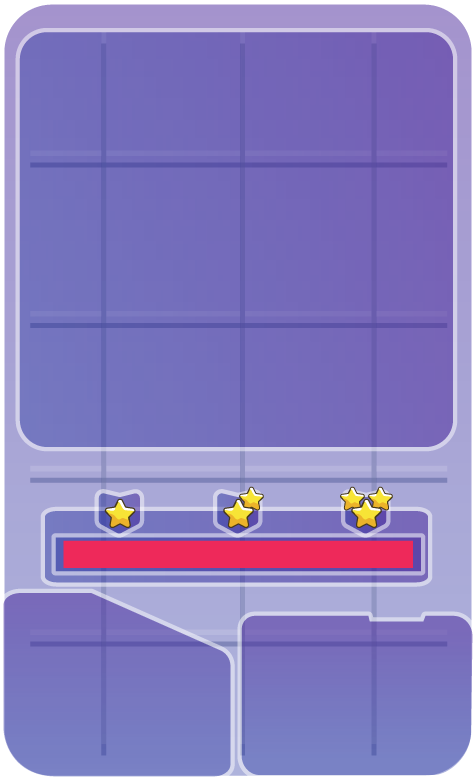
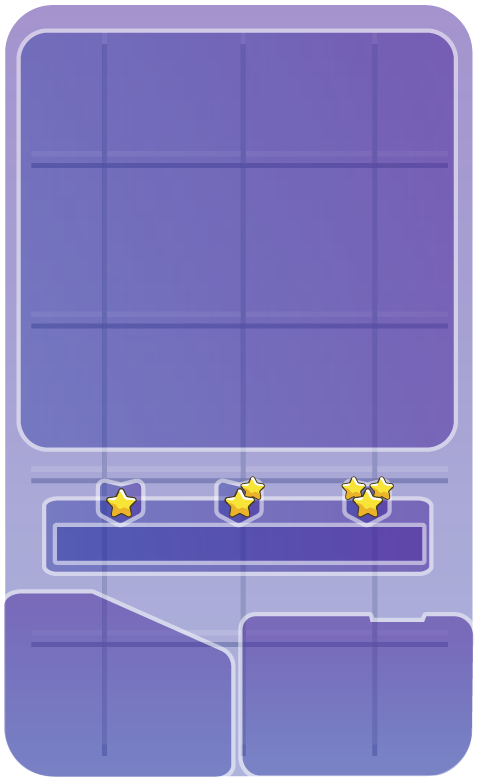
tutorialJS

diff --git a/newStructure/minigames/sushiTowers/js/scenes/sushi.js b/newStructure/minigames/sushiTowers/js/scenes/sushi.js
@@ -699,18 +699,15 @@ var sushi = function(){
 		option.tween.onComplete.add(function (thisOption) {
 			
 			
-			for(var checkCollitions=0; checkCollitions<sushisInGame[lineToCollide].length; checkCollitions++){
-				if(checkOverlap(option,sushisInGame[lineToCollide][checkCollitions])){
-					option.y-=sushisInGame[lineToCollide][checkCollitions].height;
-				}
-			}
-			
 			for(var containerIndex = 0; containerIndex < thisOption.sushiList.length; containerIndex++){
 				var container = thisOption.sushiList[containerIndex]
 				container.inputEnabled = true
 			}
+			
 			for(var checkPositions=0; checkPositions<sushisInGame[lineToCollide].length; checkPositions++){
-					
+				if(checkOverlap(option.container,sushisInGame[lineToCollide][checkPositions])){
+					option.y-=sushisInGame[lineToCollide][checkPositions].height;
+				}
 				
 				if(option.y<sushisInGame[lineToCollide][checkPositions].y){
 					cont++;
@@ -729,7 +726,7 @@ var sushi = function(){
 			sushisInGame[lineToCollide].splice(cont,0,option);
 			//sushisInGame[lineToCollide].push(thisOption)
 
-			sushisInGame[lineToCollide].delaySushi = 500
+			sushisInGame[lineToCollide].delaySushi = 100
 			
 //			if(tutorial && sushisInGame[2][0]!=null && xTutorial){
 //			
@@ -874,7 +871,7 @@ var sushi = function(){
 				}
 				
 				else {
-					if (sushiIndex > 0)
+					if (sushiIndex > 0 && prevSushi)
 						sushi.toY = prevSushi.y - prevSushi.height + 15
 					else
 						sushi.toY = maxHeight

diff --git a/newStructure/shared/minigames/js/helpers/tutorial.js b/newStructure/shared/minigames/js/helpers/tutorial.js
@@ -165,7 +165,7 @@ var tutorialHelper = function () {
 
 		var coinsRect = new Phaser.Graphics(game)
 		coinsRect.beginFill(0xff0000)
-		coinsRect.drawRect(0,0,364, 30)
+		coinsRect.drawRect(0,-12,364, 30)
 		coinsRect.endFill()
 
 
